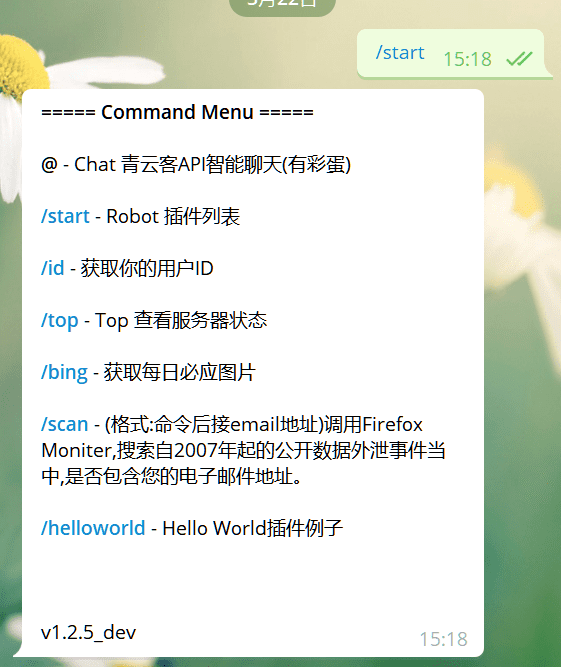
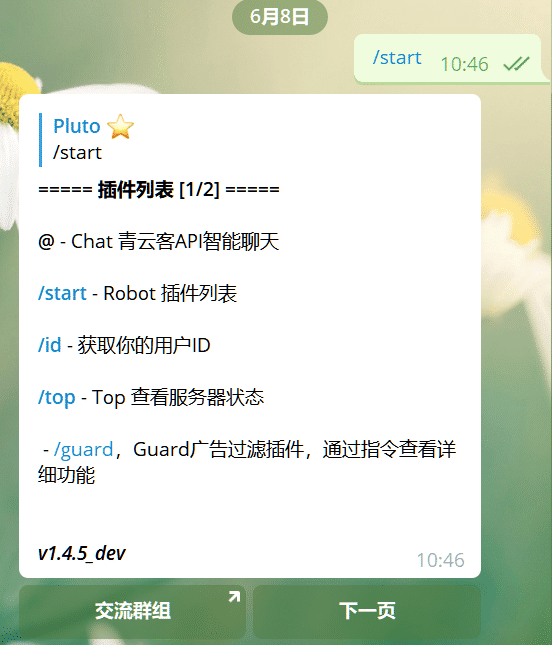
v1.4.9_dev

diff --git a/teelebot/plugins/Menu/Menu.py b/teelebot/plugins/Menu/Menu.py
@@ -1,4 +1,9 @@
 # -*- coding:utf-8 -*-
+'''
+creation time: 2019-8-15
+last_modify: 2020-6-8
+'''
+
 import os
 from teelebot import Bot
 from threading import Timer
@@ -6,27 +11,125 @@ from threading import Timer
 bot = Bot()
 
 def Menu(message):
+    prefix = "start"
+    chat_id = message["chat"]["id"]
+    message_id = message["message_id"]
 
     plugin_list = bot.plugin_bridge.values()
-    menu_str = ""
-    for plugin in plugin_list:
-        with open(bot.plugin_dir + plugin + r"/__init__.py", encoding="utf-8") as f:
-            line_1 = ""
-            line_2 = ""
-            for i in range(2):
-                if i == 0:
-                    line_1 = f.readline().strip()[1:]
-                elif i == 1:
-                    line_2 = f.readline().strip()[1:]
-            menu_str += "<b>" + line_1 + "</b> - " + line_2 + "%0A%0A"
-    menu_str = "<b>===== 插件列表 =====</b>%0A%0A" + menu_str + "%0A%0Av" + bot.VERSION
-    status = bot.sendChatAction(message["chat"]["id"], "typing")
-    status = bot.sendMessage(message["chat"]["id"], menu_str, parse_mode="HTML", reply_to_message_id=message["message_id"])
+    plugin_count = len(plugin_list)
+    page_size = 5
+    page_total = int((plugin_count + page_size - 1) / page_size) # 总页数=（总数+每页数量-1）/每页数量
+    page_callback_command = "/" + prefix + "page?page="
+    with open(bot.plugin_dir + "Menu/config.ini", 'r', encoding="utf-8") as g:
+        first_btn = g.readline().strip().split(',')
+        last_btn = g.readline().strip().split(',')
 
-    timer = Timer(30, timer_func, args=[message["chat"]["id"], status["message_id"]])
-    timer.start()
+    wait_time = plugin_count * 7
+
+    if "reply_markup" in message.keys():
+        click_user_id = message["click_user"]["id"]
+        from_user_id = message["reply_to_message"]["from"]["id"]
+        callback_query_data = message["callback_query_data"]
+
+        if callback_query_data[:len(page_callback_command)] == page_callback_command:
+            if click_user_id == from_user_id:
+                page = int(callback_query_data.split('=')[1])
+                page, menu_str = menu_text(page=page, page_total=page_total, page_size=page_size, plugin_list=plugin_list)
+                previous_page = page - 1
+                if previous_page < 1:
+                    previous_page = 1
+                next_page = page + 1
+                if next_page > page_total:
+                    next_page = page_total
+
+                if page_total == 1:
+                    inlineKeyboard = [
+                        [
+                            {"text": first_btn[0], "url": first_btn[1]},
+                            {"text": last_btn[0], "url": last_btn[1]},
+                        ]
+                    ]
+                elif page == 1:
+                    inlineKeyboard = [
+                        [
+                            {"text": first_btn[0], "url": first_btn[1]},
+                            {"text": "下一页", "callback_data": page_callback_command + str(page+1)},
+                        ]
+                    ]
+                elif page == page_total:
+                    inlineKeyboard = [
+                        [
+                            {"text": "上一页", "callback_data": page_callback_command + str(page-1)},
+                            {"text": last_btn[0], "url": last_btn[1]},
+                        ]
+                    ]
+                else:
+                    inlineKeyboard = [
+                        [
+                            {"text": "上一页", "callback_data": page_callback_command + str(previous_page)},
+                            {"text": "下一页", "callback_data": page_callback_command + str(next_page)},
+                        ]
+                    ]
+                reply_markup = {
+                    "inline_keyboard": inlineKeyboard
+                }
+                status = bot.editMessageText(chat_id=chat_id, message_id=message_id, text=menu_str, parse_mode="HTML", reply_markup=reply_markup)
+                status = bot.answerCallbackQuery(message["callback_query_id"])
+            else:
+                status = bot.answerCallbackQuery(message["callback_query_id"], text="点啥点，关你啥事？", show_alert=bool("true"))
+    else:
+        page = 1
+        if page_total == 1:
+            inlineKeyboard = [
+                [
+                    {"text": first_btn[0], "url": first_btn[1]},
+                    {"text": last_btn[0], "url": last_btn[1]},
+                ]
+            ]
+        else:
+            inlineKeyboard = [
+                [
+                    {"text": first_btn[0], "url": first_btn[1]},
+                    {"text": "下一页", "callback_data": page_callback_command + str(page+1)},
+                ]
+            ]
+        reply_markup = {
+            "inline_keyboard": inlineKeyboard
+        }
+
+        page, menu_str = menu_text(page=page, page_total=page_total, page_size=page_size, plugin_list=plugin_list)
+
+        status = bot.sendChatAction(chat_id, "typing")
+        status = bot.sendMessage(chat_id=chat_id, text=menu_str, parse_mode="HTML", reply_to_message_id=message_id, reply_markup=reply_markup)
+
+        timer = Timer(wait_time, timer_func, args=[message["chat"]["id"], status["message_id"]])
+        timer.start()
 
 
+def menu_text(page, page_total, page_size, plugin_list):
+
+    if page < 1:
+        page = 1
+    elif page > page_total:
+        page = page_total
+
+    if page >=1 and page <= page_total:
+        menu_str = ""
+        plugin_range = range(page*page_size-page_size, page*page_size-1+1)
+        for i, plugin in enumerate(plugin_list): #(now_page*page_size-page_size,now_page*page_size-1)
+            if i in plugin_range:
+                with open(bot.plugin_dir + plugin + r"/__init__.py", encoding="utf-8") as f:
+                    line_1 = ""
+                    line_2 = ""
+                    for i in range(2):
+                        if i == 0:
+                            line_1 = f.readline().strip()[1:]
+                        elif i == 1:
+                            line_2 = f.readline().strip()[1:]
+                    menu_str += "<b>" + line_1 + "</b> - " + line_2 + "%0A%0A"
+        menu_str = "<b>===== 插件列表 [" + str(page) + "/" + str(page_total) + "] =====</b>%0A%0A" + menu_str + "%0A<b><i>v" + bot.VERSION + "</i></b>"
+
+        return page, menu_str
 
 def timer_func(chat_id, message_id):
     status = bot.deleteMessage(chat_id=chat_id, message_id=message_id)

diff --git a/teelebot/teelebot.py b/teelebot/teelebot.py
@@ -4,7 +4,7 @@
 @creation date: 2019-8-13
 @last modify: 2020-6-10
 @author github:plutobell
-@version: 1.4.8_dev
+@version: 1.4.9_dev
 '''
 import time
 import sys

diff --git a/teelebot/handler.py b/teelebot/handler.py
@@ -5,7 +5,7 @@ import sys
 
 
 def config():
-    __version__ = "1.4.8_dev"
+    __version__ = "1.4.9_dev"
     __author__ = "github:plutobell"
 
     config = {}

diff --git a/README.md b/README.md
@@ -22,6 +22,7 @@ Python实现的Telegram Bot机器人框架
 *  Guard - 广告过滤， 使用 DFA 对消息进行过滤；入群验证码人机检测
 *  Admin - 群管插件，管理员可通过指令对群进行管理(踢人、禁言等)
 *  Qrcode - 二维码生成插件，调用 [Goole API](https://google.com) 生成二维码
+*  IPinfo - 查询IP地址信息，调用 [ip-api](https://ip-api.com/)  查询IP信息
 
 
 
@@ -337,7 +338,9 @@ bot.plugin_dir + "<plugin dir name>/<resource address>"
 
 #### 2020-6-10
 
+* v1.4.9 : 新增插件 IPinfo; 调整 ID插件消息文案
 * v1.4.8 : 修复插件 Guard 验证码选项显示不全的bug；ID 插件新增查询其他用户ID的功能
+
 * v1.4.7 : 重构插件 Guard 的captcha，调整人机验证方式
 
 #### 2020-6-9
